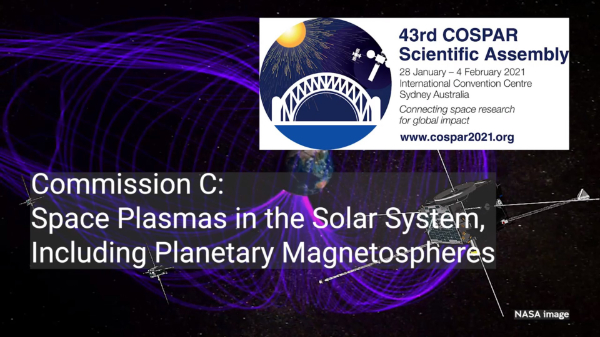
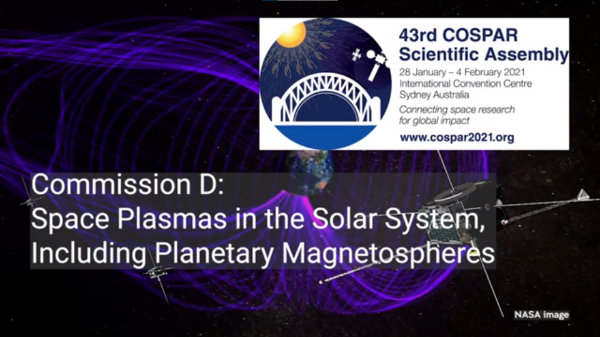
Updated Commission video D

diff --git a/new-submissions.php b/new-submissions.php
@@ -82,7 +82,7 @@ include('include/header.php');
     </div>
     <div class="col-md-4">
         <div class="video">
-            <a href="https://youtu.be/iyQ231aqFGk" target="_blank" class="player">
+            <a href="https://youtu.be/KEpCn_GYEXU" target="_blank" class="player">
                 <img src="abstracts/play.png" class="play">
                 <img src="abstracts/tiles/d.jpg" class="static img-fluid">
                 <img src="abstracts/tiles/d.gif" class="img-fluid">
